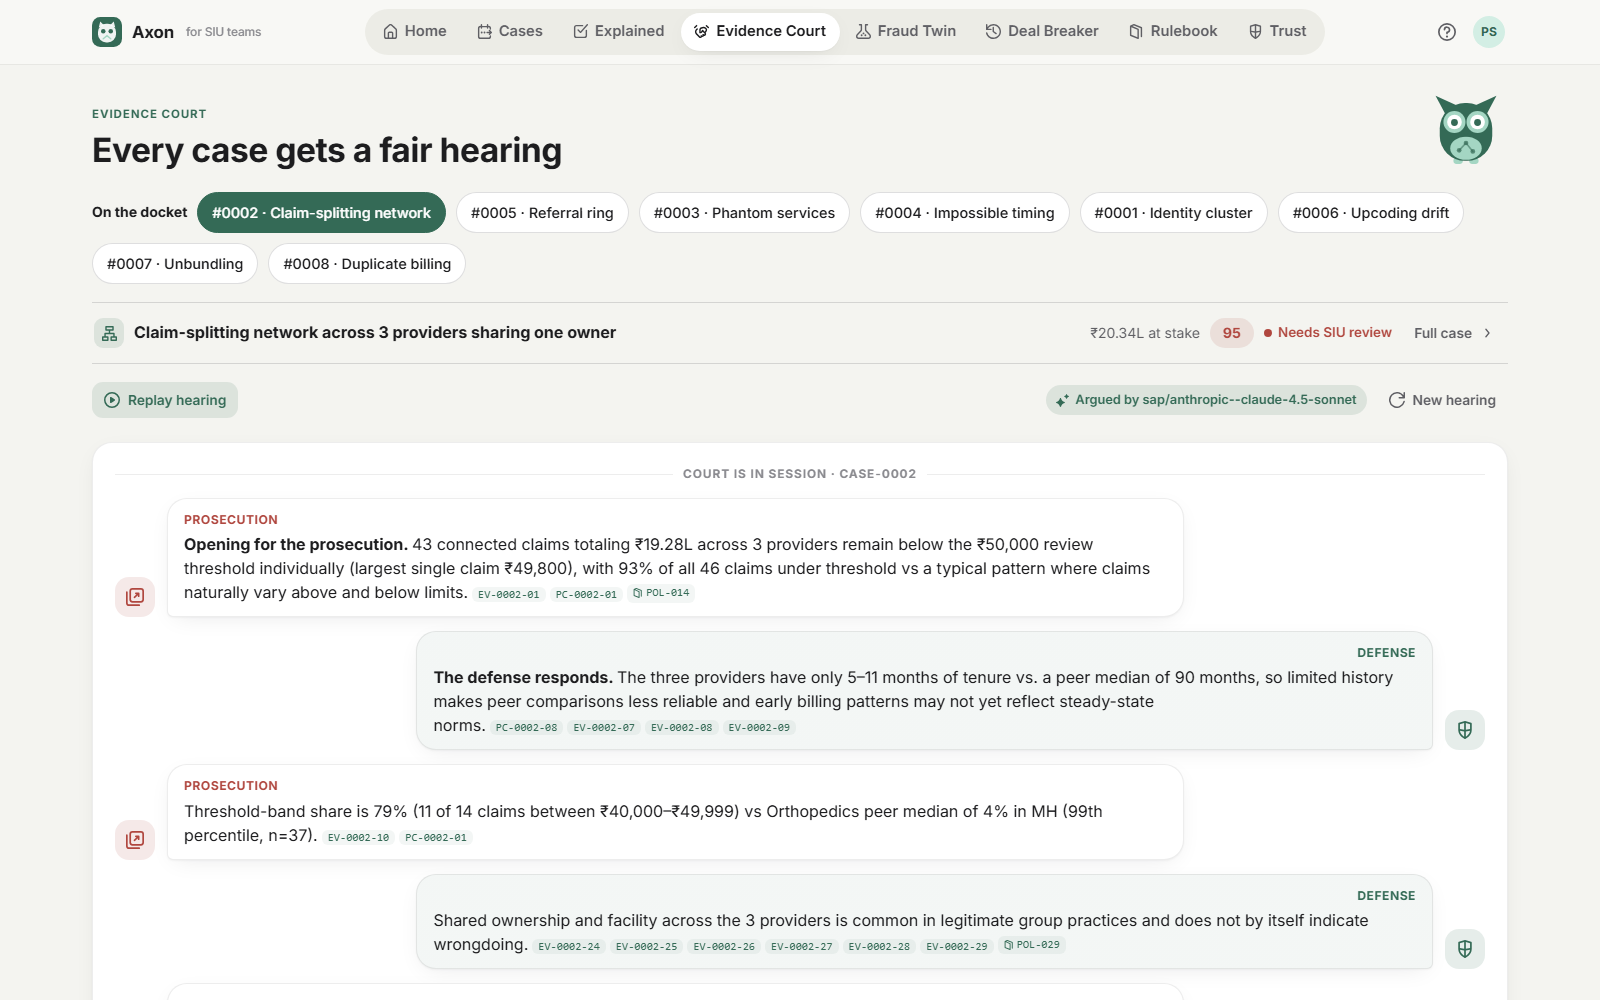
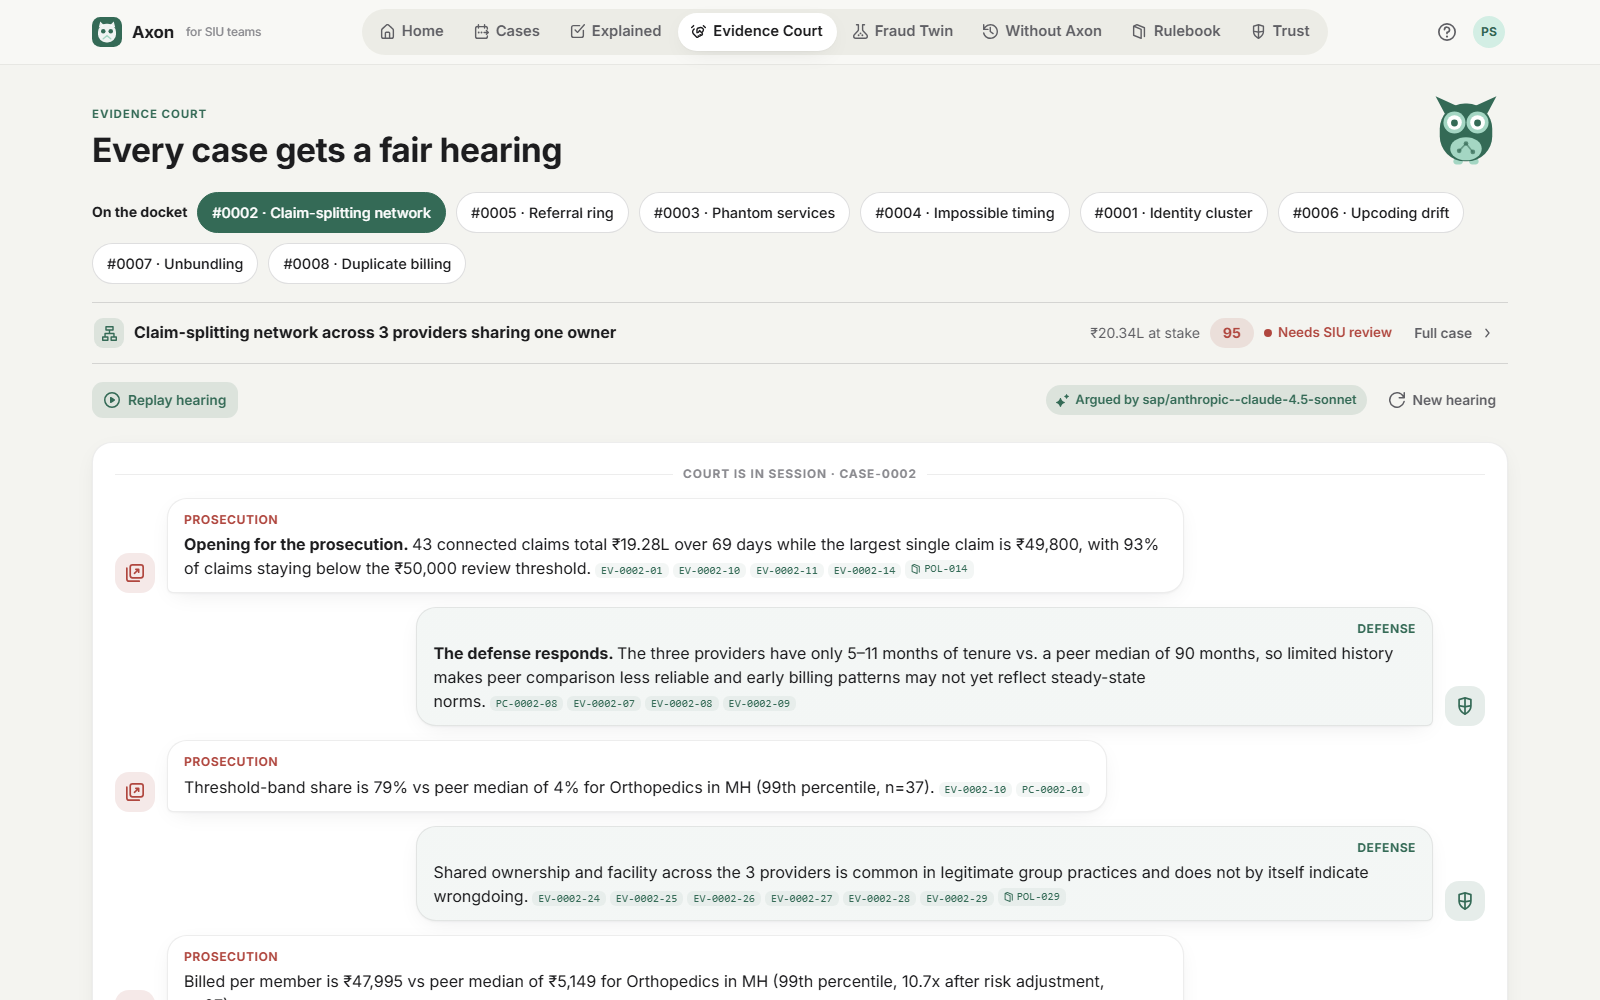
Rename Deal Breaker to Without Axon (/without-axon, old links redirect); refresh screenshots

diff --git a/frontend/src/App.tsx b/frontend/src/App.tsx
@@ -40,8 +40,9 @@ export default function App() {
           <Route path="/cases/:id" element={shell(<CaseView />)} />
           <Route path="/explained" element={shell(<Explained />)} />
           <Route path="/twin" element={shell(<Twin />)} />
-          <Route path="/deal-breaker" element={shell(<Timelines />)} />
-          <Route path="/timelines" element={<Navigate to="/deal-breaker" replace />} />
+          <Route path="/without-axon" element={shell(<Timelines />)} />
+          <Route path="/timelines" element={<Navigate to="/without-axon" replace />} />
+          <Route path="/deal-breaker" element={<Navigate to="/without-axon" replace />} />
           <Route path="/rulebook" element={shell(<Rulebook />)} />
           <Route path="/trust" element={shell(<Trust />)} />
           <Route path="/challenge" element={<Challenge />} />

diff --git a/frontend/src/pages/Timelines.tsx b/frontend/src/pages/Timelines.tsx
@@ -219,7 +219,7 @@ export function Timelines() {
 
   return (
     <div className={`twotl ${act2 ? 'tl-act2' : ''} ${phase === 'rewind' ? 'tl-rewind' : ''} ${phase === 'strike' || phase === 'cta' ? 'tl-lost' : ''}`}>
-      <PageHeader eyebrow="Deal Breaker"
+      <PageHeader eyebrow="Without Axon"
         title={phase === 'cta' ? 'Back to today' : act2 || phase === 'rewind' ? 'The same days, without Axon' : 'With Axon'}
         subtitle={<>{k.case_id} · {PATTERN[k.pattern] ?? k.pattern}. Same data, same dates, two outcomes.</>}
         actions={<div className="row-flex">

diff --git a/frontend/src/components/TopNav.tsx b/frontend/src/components/TopNav.tsx
@@ -16,7 +16,7 @@ const links: { to: string; label: string; icon: IconName; end?: boolean }[] = [
   { to: '/explained', label: 'Explained', icon: 'complete' },
   { to: '/court', label: 'Evidence Court', icon: 'decision' },
   { to: '/twin', label: 'Fraud Twin', icon: 'lab' },
-  { to: '/deal-breaker', label: 'Deal Breaker', icon: 'history' },
+  { to: '/without-axon', label: 'Without Axon', icon: 'history' },
   { to: '/rulebook', label: 'Rulebook', icon: 'course-book' },
   { to: '/trust', label: 'Trust', icon: 'shield' },
 ];

diff --git a/README.md b/README.md
@@ -67,9 +67,9 @@ Alerts the engine cleared, and the innocent explanation that fit the facts.
 Try to beat the detector: pick or describe a scheme, see how many fakes each method catches, why some slipped through, and the fix Axon suggests.
 ![Fraud Twin](docs/screenshots/twin.png)
 
-### Deal Breaker
+### Without Axon
 The same case, the same dates, with and without Axon: money paid out and lost vs. held before it leaves.
-![Deal Breaker](docs/screenshots/timelines.png)
+![Without Axon](docs/screenshots/timelines.png)
 
 ### Rulebook
 The 33 synthetic payer rules and 10 paraphrased Indian law summaries the agents may cite, retrieved per case (BM25 RAG).
